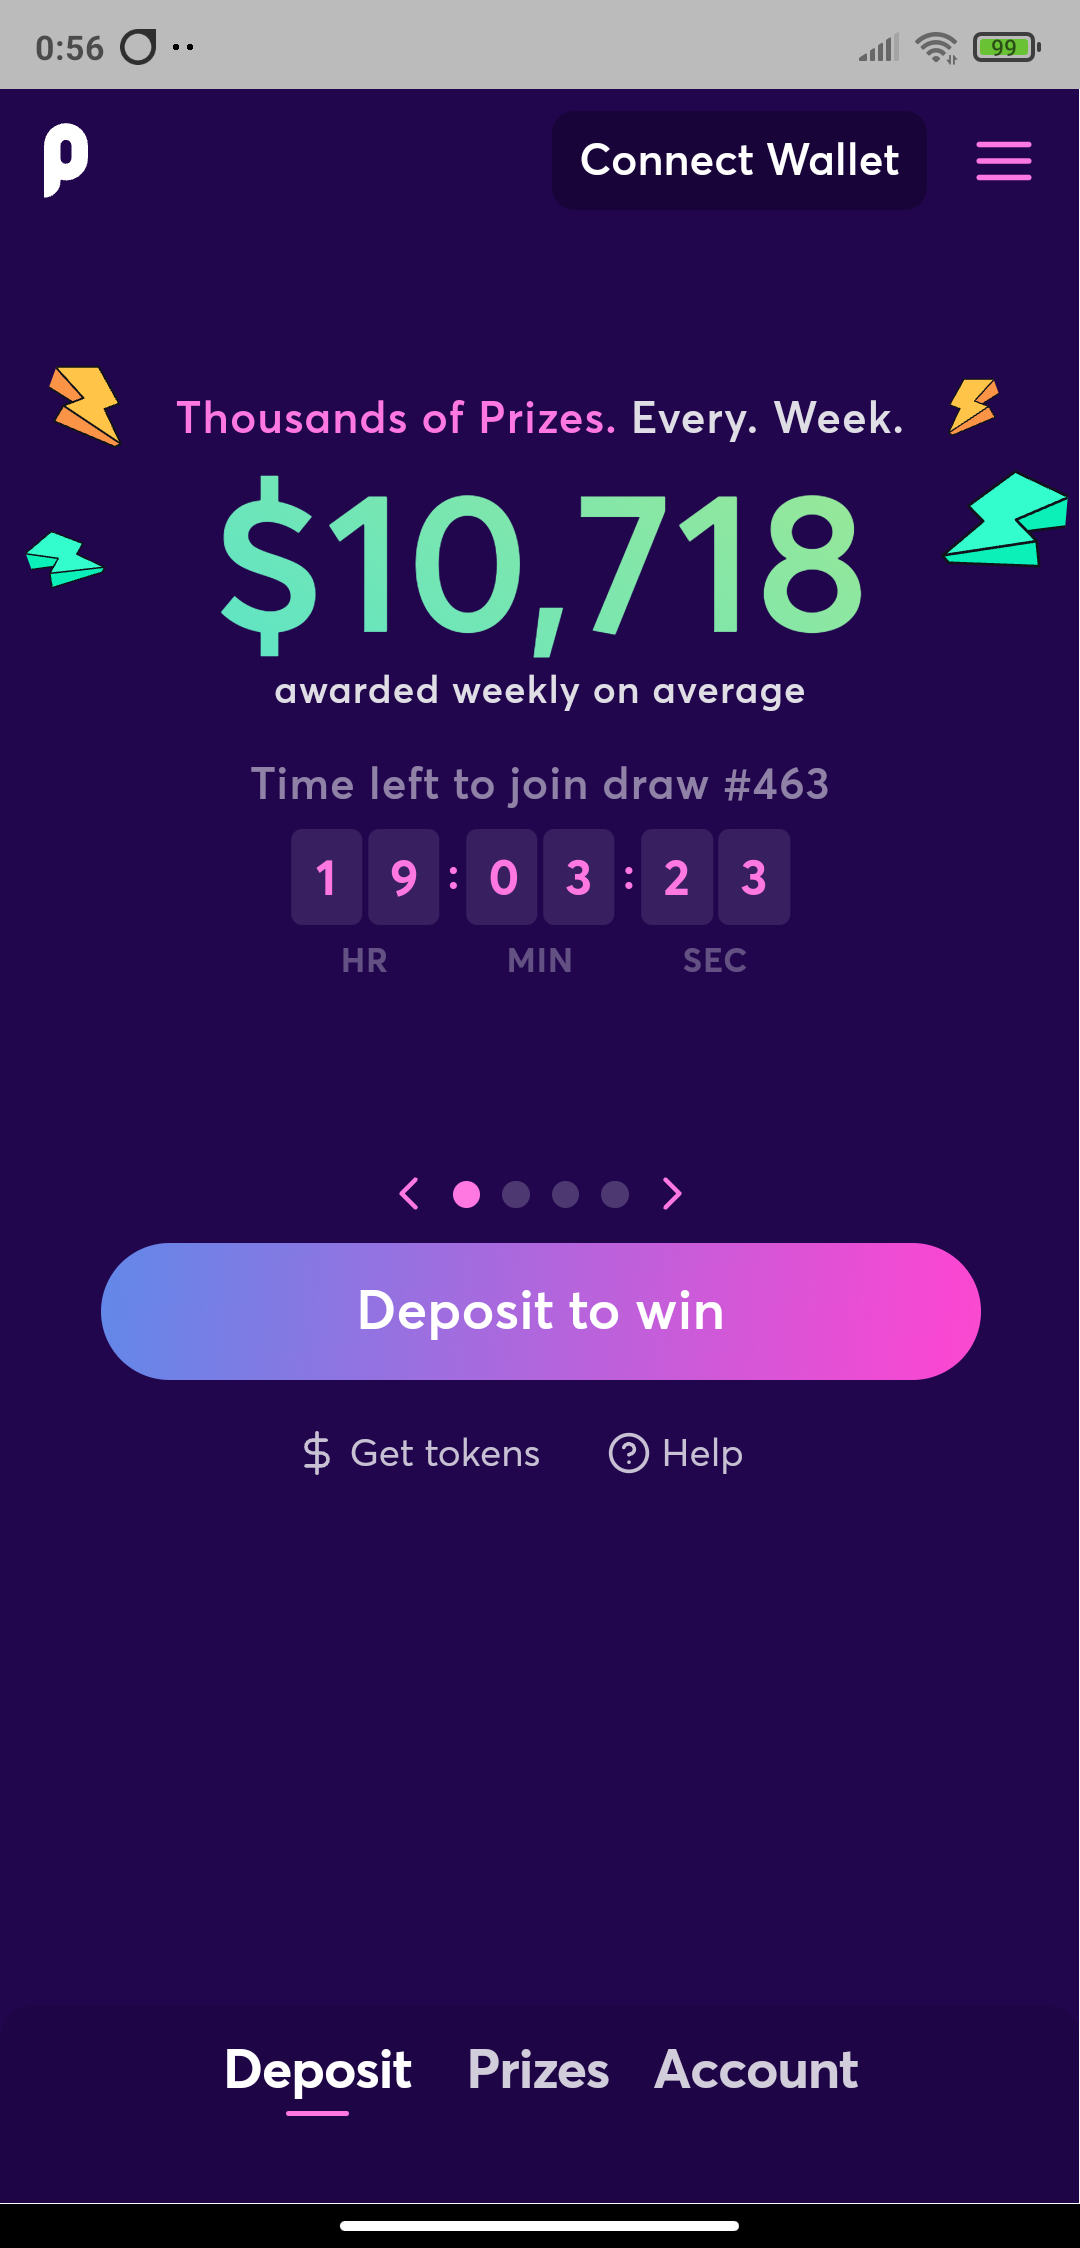
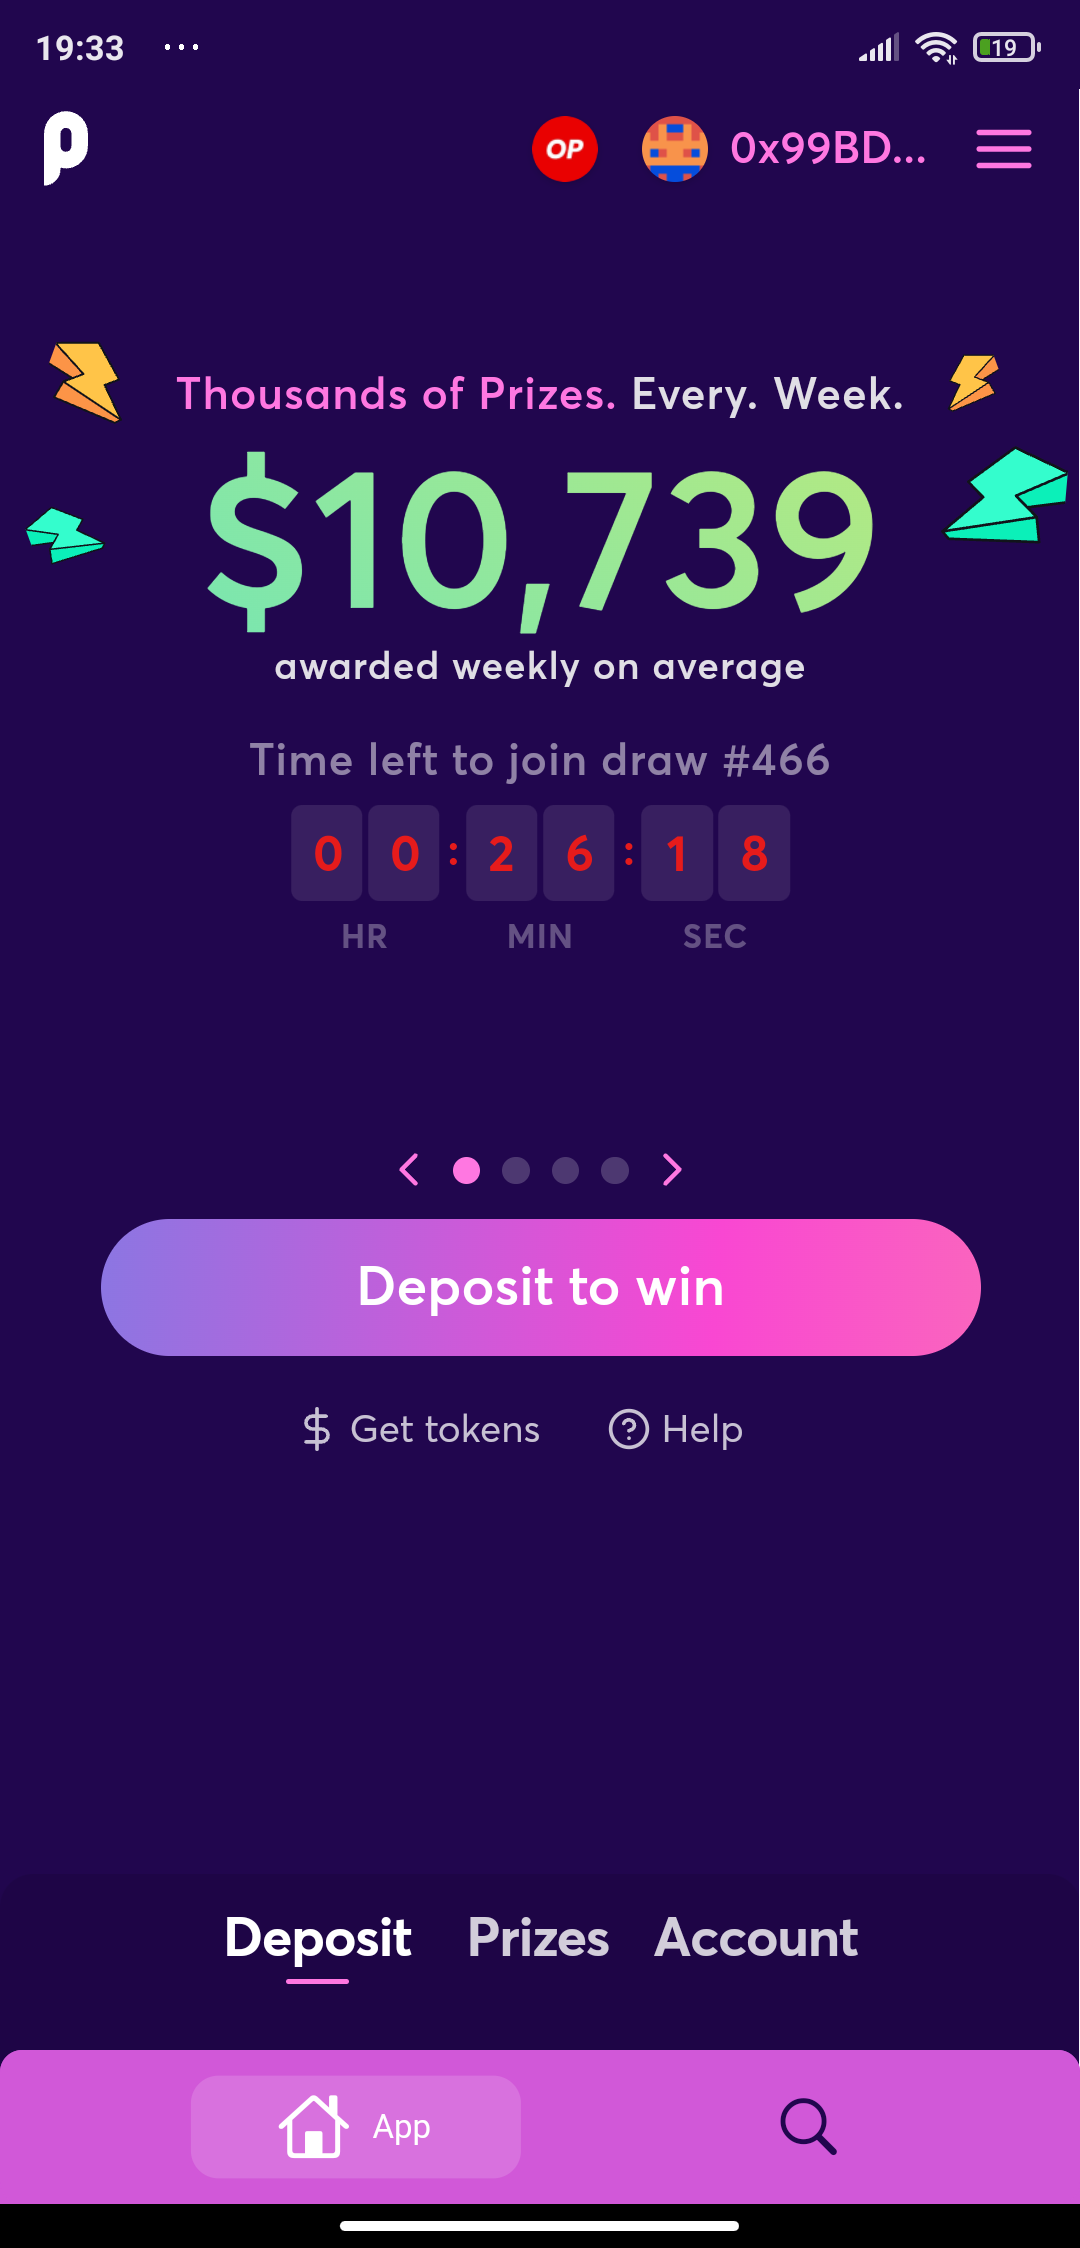
Update README.md

diff --git a/README.md b/README.md
@@ -3,10 +3,15 @@
 [<img src="screenshot_01.png" height="300" />](screenshot_01.png)
 [<img src="screenshot_02.png" height="300" />](screenshot_02.png)
 [<img src="screenshot_03.png" height="300" />](screenshot_03.png)
+[<img src="screenshot_04.png" height="300" />](screenshot_04.png)
 
 ## About
 
 A Flutter app for [PoolTogether](https://app.pooltogether.com/fr), made using a WebView.
+
+This also fully works with [WalletConnect](https://walletconnect.org/) and [Coinbase Wallet](https://wallet.coinbase.com/).
+
+A full integration of [PoolExplorer](https://poolexplorer.win/) has been done to display the last winnings.
 
 This is an Unofficial app, not affiliated with PoolTogether.
 
